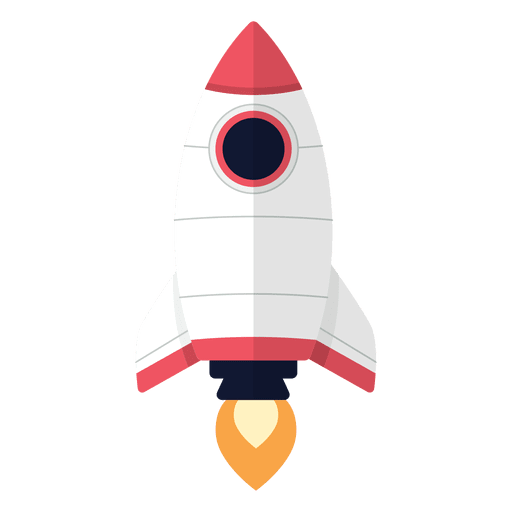
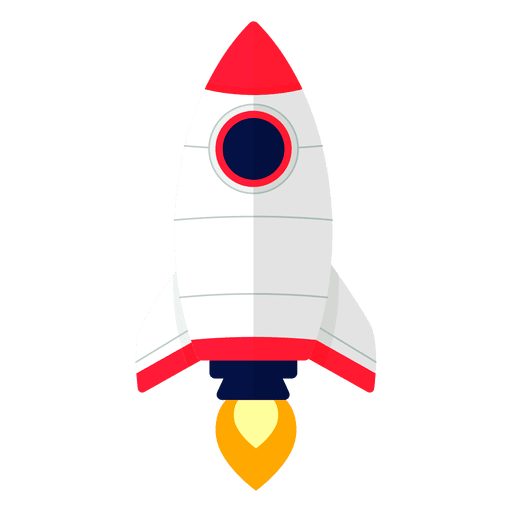
Change tint of spaceship to be red instead of pink, spead up speed of animations

diff --git a/src/index.js b/src/index.js
@@ -25,7 +25,7 @@ class StartScreen extends Phaser.Scene {
     this.anims.create({
       key: 'rocketFlicker',
       frames: this.anims.generateFrameNumbers('rocket-flicker'),
-      frameRate: 8,
+      frameRate: 10,
       repeat: -1,
     });
 
@@ -33,8 +33,8 @@ class StartScreen extends Phaser.Scene {
   }
 
   update() { //eslint-disable-line
-    background.tilePositionY += 1;
-    background.tilePositionX += 1;
+    background.tilePositionY += 3;
+    background.tilePositionX += 3;
   }
 }
 
